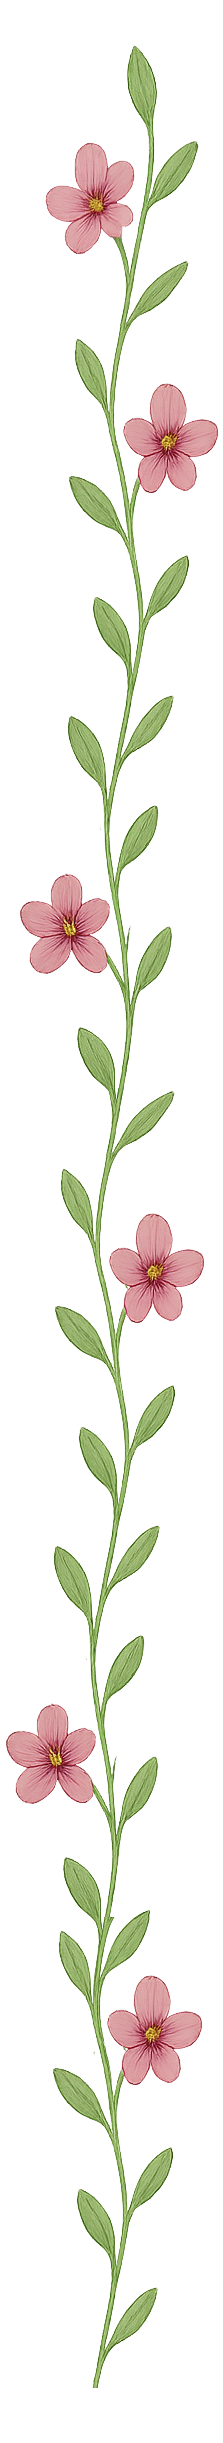
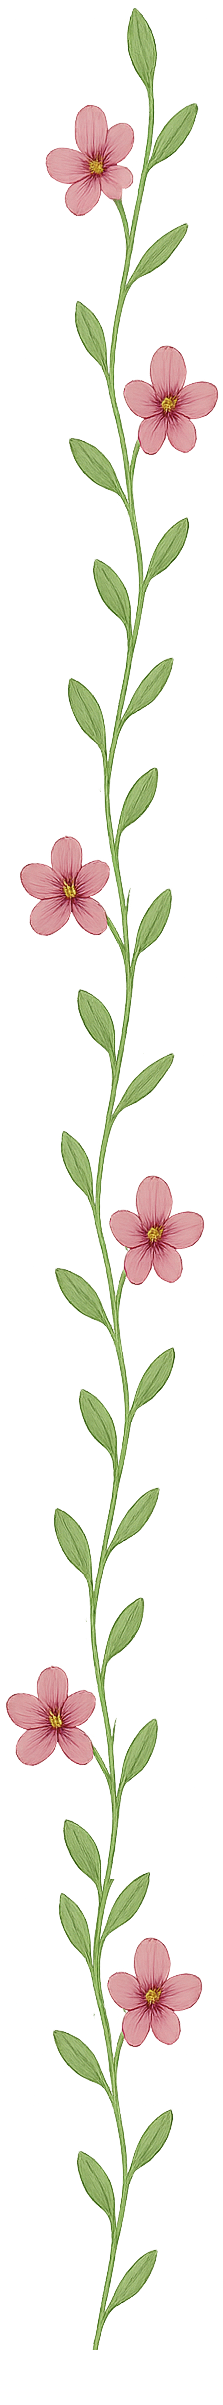
Menyasszonytánc

Changed region(s): [[0.0269, 0.0, 0.9955, 0.9667]]

diff --git a/index.html b/index.html
@@ -91,6 +91,7 @@
           <div class="row">18:00</div>
           <div class="row compact-row">20:00</div>
           <div class="row compact-row">22:00</div>
+          <div class="row compact-row">23:30</div>
           <div class="row compact-row">24:00</div>
         </div>
 
@@ -101,12 +102,12 @@
         
       <div class="schedule-col vine">
         <!-- Desktop image -->
-        <img src="images/divider_long2.png" alt="Díszítő inda" class="divider-img desktop-only">
+        <img src="images/divider_long3.png" alt="Díszítő inda" class="divider-img desktop-only">
 
         <!-- Mobile images (will only display on small screens) -->
         <div class="mobile-only multiple-divider">
           <img src="images/divider_long.png" alt="Díszítő inda">
-          <img src="images/divider_long.png" alt="Díszítő inda">
+          <img src="images/divider_long2.png" alt="Díszítő inda">
           <!-- <img src="images/divider.png" alt="Díszítő inda"> -->
         </div>
       </div>
@@ -142,7 +143,10 @@
             Nyitótánc, buli kezdete
           </div>
           <div class="row compact-row">
-            Menyasszonytánc, torta
+            Menyasszonyi torta
+          </div>
+          <div class="row compact-row">
+            Menyasszonytánc
           </div>
           <div class="row compact-row">
             Éjféli vacsora és mulatozás kifulladásig
